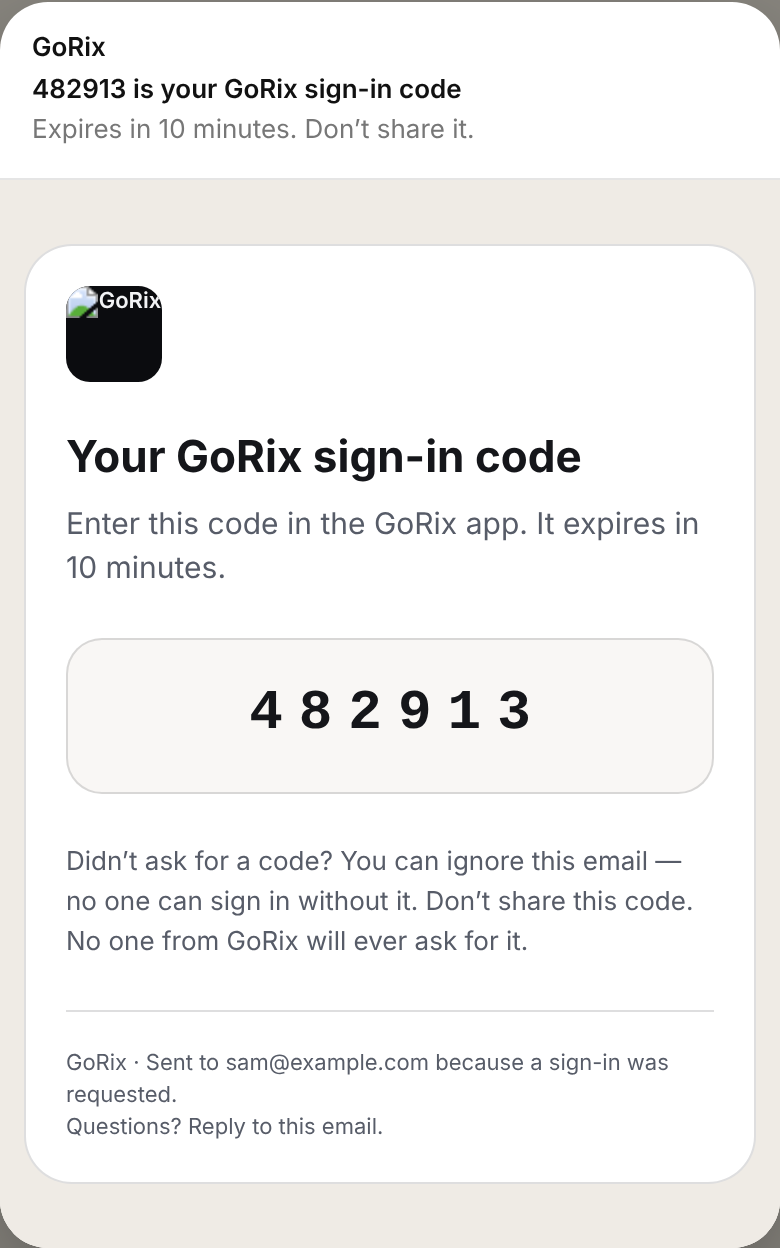
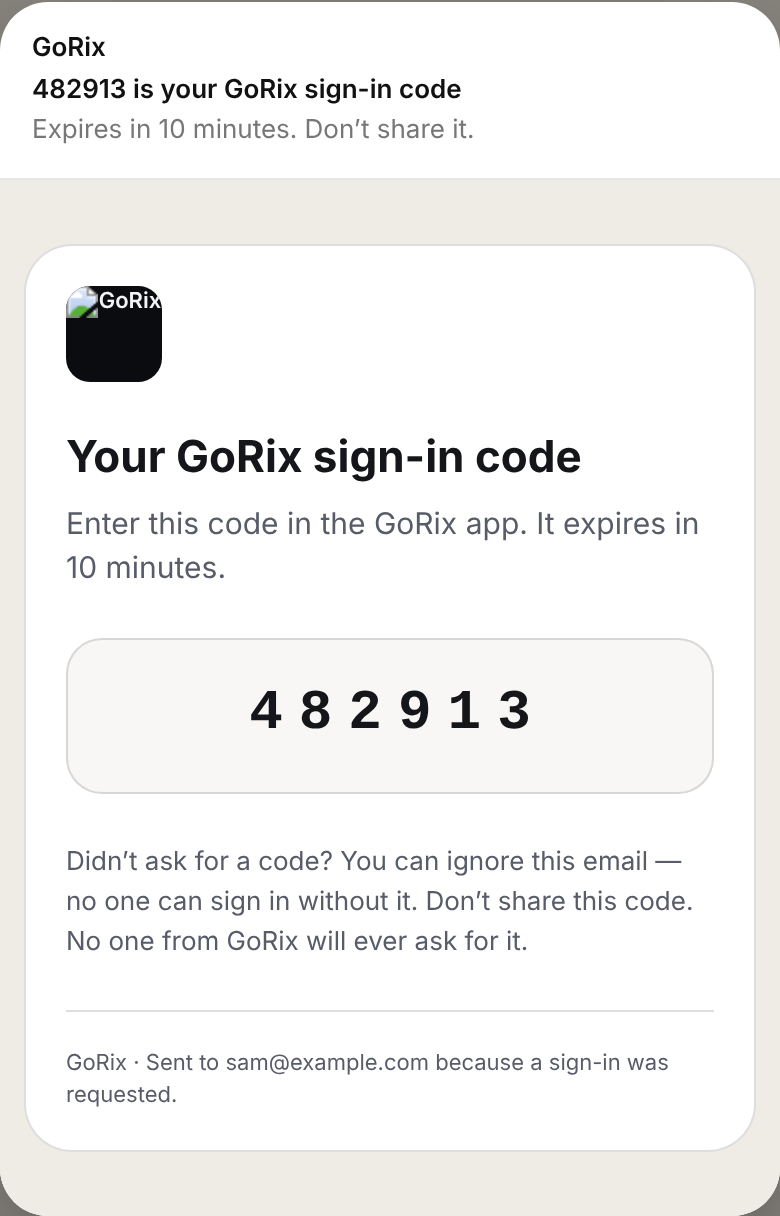
§19.5: ответы основателя — письмо входа без «ответьте» и Reply-To, код 6 цифр 10 минут; письма с документами — Reply-To компании (#1999)
Refs #1999

Claude-Session: https://claude.ai/code/session_015CqH6ASDHbrqZJwuB5QwkU

diff --git a/docs/prototypes/1999/signin-code.html b/docs/prototypes/1999/signin-code.html
@@ -73,7 +73,7 @@
     </table>
     <p class="mut" style="margin:24px 0 24px;font-size:13px;line-height:20px;color:#575C68;">{{ if eq .Data.lang "es" }}¿No pidió un código? No tiene que hacer nada: nadie puede entrar sin él. No comparta este código. Nadie de GoRix se lo pedirá.{{ else if eq .Data.lang "ru" }}Не запрашивали код? Ничего делать не нужно — без кода войти нельзя. Никому не сообщайте код: сотрудники GoRix его никогда не спрашивают.{{ else }}Didn’t ask for a code? You can ignore this email — no one can sign in without it. Don’t share this code. No one from GoRix will ever ask for it.{{ end }}</p>
     <table role="presentation" width="100%" cellpadding="0" cellspacing="0" border="0"><tr><td class="rule" style="border-top:1px solid rgba(20,22,30,.14);font-size:0;line-height:0;height:1px;">&nbsp;</td></tr></table>
-    <p class="mut" style="margin:16px 0 0;font-size:11px;line-height:16px;color:#575C68;">GoRix · {{ if eq .Data.lang "es" }}Enviado a <span style="color:inherit;text-decoration:none;">{{ .Email }}</span> porque se solicitó iniciar sesión.{{ else if eq .Data.lang "ru" }}Отправлено на <span style="color:inherit;text-decoration:none;">{{ .Email }}</span>, потому что запрошен вход.{{ else }}Sent to <span style="color:inherit;text-decoration:none;">{{ .Email }}</span> because a sign-in was requested.{{ end }}<!-- REPLY: строка ниже — только если у отправителя есть ящик для ответов (вопрос основателю) --><br>{{ if eq .Data.lang "es" }}¿Preguntas? Responda a este correo.{{ else if eq .Data.lang "ru" }}Вопросы? Ответьте на это письмо.{{ else }}Questions? Reply to this email.{{ end }}</p>
+    <p class="mut" style="margin:16px 0 0;font-size:11px;line-height:16px;color:#575C68;">GoRix · {{ if eq .Data.lang "es" }}Enviado a <span style="color:inherit;text-decoration:none;">{{ .Email }}</span> porque se solicitó iniciar sesión.{{ else if eq .Data.lang "ru" }}Отправлено на <span style="color:inherit;text-decoration:none;">{{ .Email }}</span>, потому что запрошен вход.{{ else }}Sent to <span style="color:inherit;text-decoration:none;">{{ .Email }}</span> because a sign-in was requested.{{ end }}</p>
   </td></tr>
   </table>
   <!--[if mso]></td></tr></table><![endif]-->

diff --git a/design/naryad-ds/DESIGN-SYSTEM.md b/design/naryad-ds/DESIGN-SYSTEM.md
@@ -1910,7 +1910,7 @@ iOS «Уменьшение движения», Android «Убрать анима
    - Почему иконка, а не логотип «GoRix»: у иконки свой тёмный фон, поэтому её одинаково видно в светлой и тёмной почте. Почта не перекрашивает картинки, и прозрачный логотип с тёмными буквами пропадает в тёмной Gmail.
    - **Без анимации:** Outlook на компьютере показывает у GIF только первый кадр, движение в письме отвлекает от кода, а настройку «уменьшить движение» почта не знает.
    - Когда появится новый знак GoRix, меняется только PNG.
-5. **Код — текстом**, не картинкой: одна строка цифр без пробелов и дефисов. Так его находят автоподстановка кода iOS из «Почты» и «Copy code» Gmail, а пробел не попадёт в копию. Вид кода:
+5. **Код — 6 цифр, действует 10 минут** (основатель, 18.11). **Код — текстом**, не картинкой: одна строка цифр без пробелов и дефисов. Так его находят автоподстановка кода iOS из «Почты» и «Copy code» Gmail, а пробел не попадёт в копию. Вид кода:
    - моноширинный системный шрифт, `font.size.display` 28, жирный;
    - разрядка `space[2]` 8, отступ слева больше на те же 8, чтобы код стоял по центру;
    - плашка `surfSolid` своей темы, линия `print.rule` / `themes.dark.bd`, скругление `radius.inner` 18.
@@ -1930,7 +1930,8 @@ iOS «Уменьшение движения», Android «Убрать анима
 8. **Шрифт** — системный (`-apple-system`, Segoe UI, Roboto, Arial): веб-шрифты почта грузит ненадёжно. Размеры — `font.size`: заголовок `title` 22, текст `body` 15, безопасность `caption` 13, подвал `micro` 11, код `display` 28.
 9. **Вёрстка:** карточка до `layout.formMax` 560, поля `space[6]` 24 (на узком `space[5]` 20), скругление `radius.card` 24. Одна колонка, вёрстка таблицами, `bgcolor` рядом с `background`. Для Outlook на Windows — обёртка `<!--[if mso]>` шириной 560: он не знает `max-width`.
 10. **Язык** — язык человека (правило 7): `user_metadata.lang`, который приложение кладёт при первом входе; нет — en. Испанский — на «usted» (§4.2). Тексты — `docs/prototypes/1999/texts.md`.
-11. **Подвал:** «GoRix · Отправлено на {email}, потому что запрошен вход.» и «Вопросы? Ответьте на это письмо.». Вторая фраза — только если у адреса отправителя есть ящик для ответов (`Reply-To`; вопрос основателю), иначе её нет. Адреса компании и отписки в письме входа нет: оно не коммерческое.
+11. **Подвал:** «GoRix · Отправлено на {email}, потому что запрошен вход.» — и всё. **Ответа на письмо входа не ждём:** строки «ответьте на это письмо» и заголовка `Reply-To` нет (основатель, 18.11). Адреса компании и отписки нет: письмо не коммерческое.
+11а. **Письма с документами клиенту** (смета, счёт, квитанция; §19.4) — наоборот: `Reply-To` = почта компании-подрядчика, в письме кнопка или строка «Ответить» (основатель, 18.11). Ответ клиента приходит подрядчику, а не GoRix.
 12. **Текстовая версия** — тот же текст без вёрстки. Она появится, когда письма пойдут через Send Email Hook → Resend: встроенная отправка Supabase шлёт только HTML.
 13. **Проверка до влития шаблона** (чат «Вход»), список — `docs/prototypes/1999/README.md`:
     - одно письмо в Gmail (веб, iOS, Android, **тёмная тема — снимок обязателен**);
@@ -2314,7 +2315,7 @@ iOS «Уменьшение движения», Android «Убрать анима
 ## 24. Журнал изменений
 
 ### 1.21.0 — 18.11.2026 (письма GoRix от своего имени, код входа; #1999)
-- §19.5 новый: письмо с кодом входа без ссылок, кнопок и рекламы, автоссылки выключены; знак — иконка GR, неподвижная, видна в обеих темах почты, при выключенных картинках — тёмный квадрат со словом; код текстом одной строкой (автоподстановка iOS, «Copy code» Gmail), кнопки «Скопировать» нет; тема начинается с кода, превью его не повторяет; все значения — токены; Outlook — обёртка `mso`; Gmail-тёмная — снимок до влития; язык человека, испанский на «usted»; подвал. §18.2: строка «Письма GoRix». Макет и тексты RU/EN/ES — `docs/prototypes/1999/`.
+- §19.5 новый: письмо с кодом входа без ссылок, кнопок и рекламы, автоссылки выключены; знак — иконка GR, неподвижная, видна в обеих темах почты, при выключенных картинках — тёмный квадрат со словом; код текстом одной строкой (автоподстановка iOS, «Copy code» Gmail), кнопки «Скопировать» нет; тема начинается с кода, превью его не повторяет; все значения — токены; Outlook — обёртка `mso`; Gmail-тёмная — снимок до влития; язык человека, испанский на «usted»; подвал без «ответьте» и без `Reply-To`; код 6 цифр, 10 минут (ответы основателя 18.11); п.11а — письма с документами клиенту: `Reply-To` = почта компании и «Ответить». §18.2: строка «Письма GoRix». Макет и тексты RU/EN/ES — `docs/prototypes/1999/`.
 - Номер 1.21.0 — после 1.20.0 (#2074); если этот PR вольётся раньше, номера не меняются.
 - Предложил: дизайн-чат (задача руководителя №13); проверил: два независимых design-reviewer (выводы — в PR и README прототипа).
 

diff --git a/docs/prototypes/1999/README.md b/docs/prototypes/1999/README.md
@@ -14,7 +14,7 @@
 |---|---|---|
 | Какая информация | знак, «Код для входа в GoRix», «введите в приложении, действует 10 минут», код, «не запрашивали — не обращайте внимания; никому не сообщайте», подвал «отправлено на …» | всё, что нужно, чтобы войти и не попасться на обман; больше — шум |
 | Реклама | **нет** | письмо транзакционное; реклама делает его коммерческим (CAN-SPAM — отписка), Gmail уводит в «Промоакции», код не дойдёт вовремя |
-| Ссылки | **нет** | мошенники копируют письма входа со ссылкой; у нас код вводится только в приложении. Ссылка на поддержку заменена «ответьте на это письмо» (если будет ящик) |
+| Ссылки | **нет** | мошенники копируют письма входа со ссылкой; у нас код вводится только в приложении. Ответа на письмо входа не ждём (основатель, 18.11) |
 | Логотип | **иконка GR, неподвижная** | у иконки свой тёмный фон — одинаково видна в светлой и тёмной почте; логотип «GoRix» прозрачный с тёмными буквами исчезает в тёмной Gmail; GIF в Outlook — первый кадр, движение отвлекает от кода |
 | «Скопировать» у кода | **кнопки нет — копирование тремя другими путями** | скрипты в письмах не работают ни в одной почте. Вместо: (1) на iPhone код из «Почты» сам предлагается над клавиатурой (iOS 17+, поле кода уже `oneTimeCode`); (2) Gmail на iPhone и Android сам ставит «Copy code» у писем с кодом — код одной строкой цифр и в теме; (3) в веб-почте одно нажатие выделяет код целиком (`user-select: all`), в почтовых приложениях — долгое нажатие |
 | Лаконично | одна колонка до 560, 5 строк текста, один код | как Linear и Slack |
@@ -45,9 +45,9 @@
 
 После выпуска — BIMI (знак аватаром в списке писем, защита от подделок).
 
-## Вопросы основателю (через руководителя)
-1. Ящик для ответов на письма входа (`Reply-To`): есть — подвал «Вопросы? Ответьте на это письмо», нет — строку убираем. Адрес в репозиторий не пишем.
-2. Срок кода — 10 минут (как сейчас в шаблоне хостинга)? Длина — 6 цифр (локальный стек) или 8 (тема хостинга в #1999 «XXXXXXXX»)? Макет держит обе.
+## Ответы основателя (18.11, через руководителя)
+1. Письмо с кодом — без «Ответьте на это письмо» и без `Reply-To`: ответа не ждём. Письма с документами клиенту — `Reply-To` = почта компании и «Ответить» (DS §19.5 п.11а).
+2. Код — 6 цифр, срок — 10 минут. Снимок 8 цифр оставлен только как проверка ширины.
 
 ## Снимки
 `before-390-light-local.png` — локальный шаблон сейчас (на хостинге шаблон задан в панели; по #1999 там тема «XXXXXXXX — your GoRix sign-in code», код, срок, «Never share»). После: `after-390-light-en`, `after-390-dark-en`, `after-390-light-es`, `after-390-light-ru`, `after-390-light-noimg` (в браузере — значок сломанной картинки; почта показывает тёмный квадрат со словом «GoRix»), `after-390-light-8digits`, `after-720-light-en`, `after-720-dark-en`. Тёмная на снимках — через `prefers-color-scheme` (так в iOS «Почте» и Outlook); Gmail-тёмная снимается на устройстве (проверка п.8).

diff --git a/docs/prototypes/1999/texts.md b/docs/prototypes/1999/texts.md
@@ -12,7 +12,7 @@
 - **Заголовок:** Your GoRix sign-in code
 - **Текст:** Enter this code in the GoRix app. It expires in 10 minutes.
 - **Безопасность:** Didn’t ask for a code? You can ignore this email — no one can sign in without it. Don’t share this code. No one from GoRix will ever ask for it.
-- **Подвал:** GoRix · Sent to `{{ .Email }}` because a sign-in was requested. Questions? Reply to this email. ← вторая фраза — только если есть ящик для ответов
+- **Подвал:** GoRix · Sent to `{{ .Email }}` because a sign-in was requested.
 
 ## ES
 - **Тема:** `{{ .Token }} es su código para iniciar sesión en GoRix`
@@ -20,7 +20,7 @@
 - **Заголовок:** Su código para iniciar sesión en GoRix
 - **Текст:** Ingrese este código en la app de GoRix. Vence en 10 minutos.
 - **Безопасность:** ¿No pidió un código? No tiene que hacer nada: nadie puede entrar sin él. No comparta este código. Nadie de GoRix se lo pedirá.
-- **Подвал:** GoRix · Enviado a `{{ .Email }}` porque se solicitó iniciar sesión. ¿Preguntas? Responda a este correo.
+- **Подвал:** GoRix · Enviado a `{{ .Email }}` porque se solicitó iniciar sesión.
 
 ## RU
 - **Тема:** `{{ .Token }} — код для входа в GoRix`
@@ -28,7 +28,7 @@
 - **Заголовок:** Код для входа в GoRix
 - **Текст:** Введите этот код в приложении GoRix. Он действует 10 минут.
 - **Безопасность:** Не запрашивали код? Ничего делать не нужно — без кода войти нельзя. Никому не сообщайте код: сотрудники GoRix его никогда не спрашивают.
-- **Подвал:** GoRix · Отправлено на `{{ .Email }}`, потому что запрошен вход. Вопросы? Ответьте на это письмо.
+- **Подвал:** GoRix · Отправлено на `{{ .Email }}`, потому что запрошен вход.
 
 ## Текстовая версия (EN; так же для ES и RU)
 ```
@@ -47,5 +47,5 @@ GoRix · Sent to {{ .Email }} because a sign-in was requested.
 
 ## Чего в письме нет
 - «Click here», «Verify», кнопок и ссылок: в письме входа ссылок нет. Мошенники копируют письма входа со ссылкой, а код вводится только в приложении.
-- «Do not reply» и адреса noreply: ответить можно (подвал), если основатель даст ящик поддержки (вопрос в README).
+- Строки «ответьте на это письмо» и заголовка `Reply-To`: ответа на письмо входа не ждём (основатель, 18.11).
 - Рекламы, соцсетей, «Download the app»: письмо транзакционное. По CAN-SPAM реклама делает письмо коммерческим и требует отписки, а Gmail уводит такие письма в «Промоакции».
